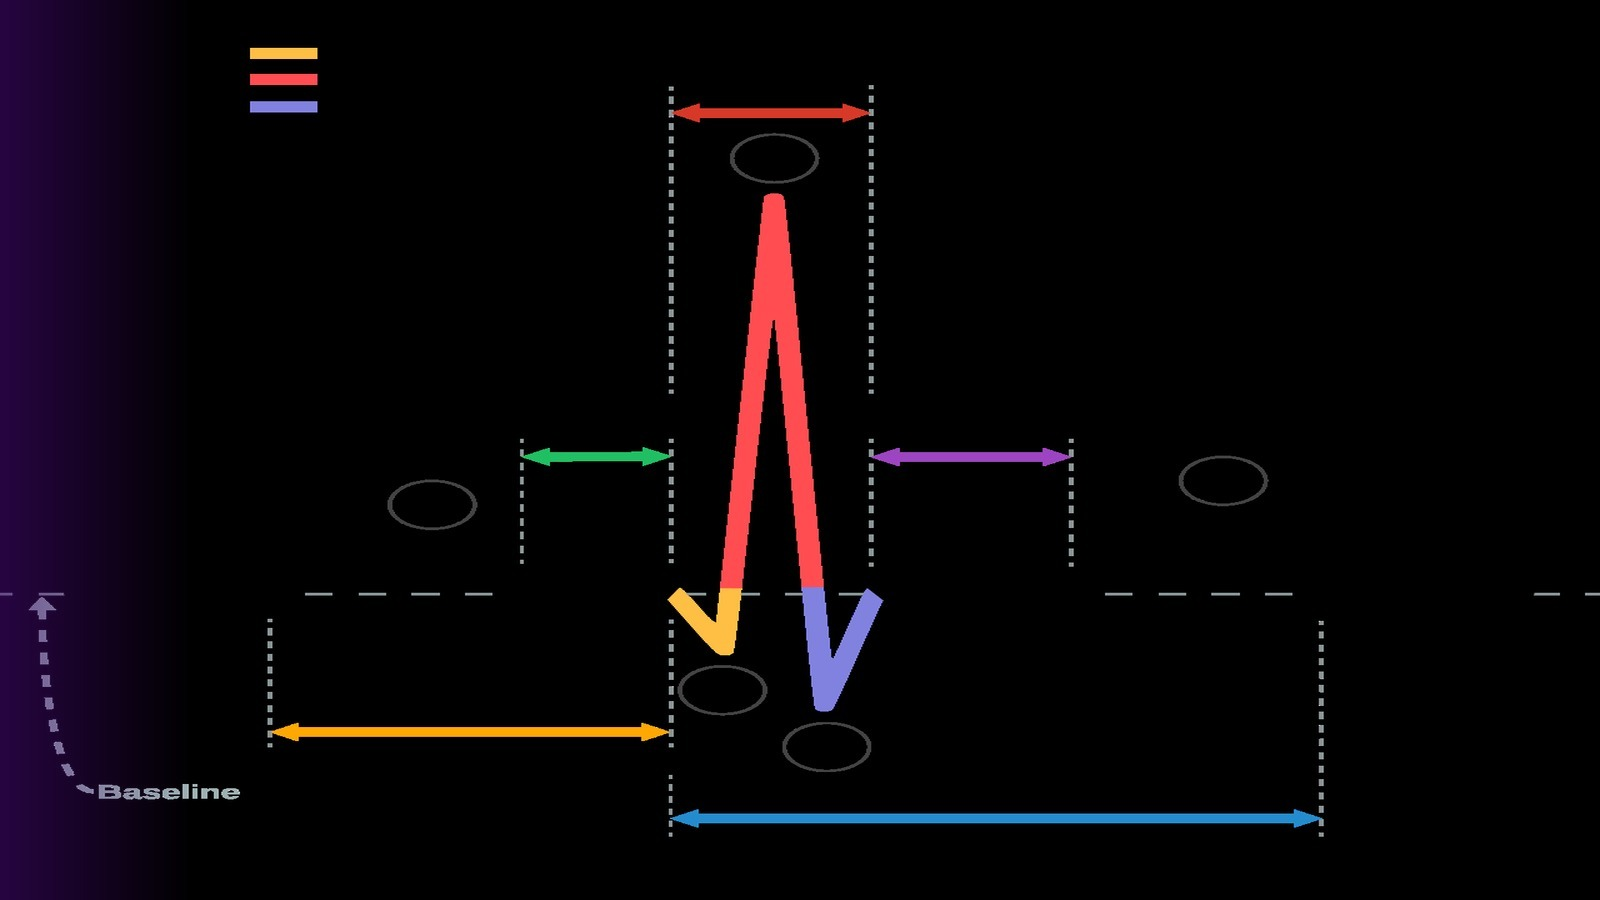
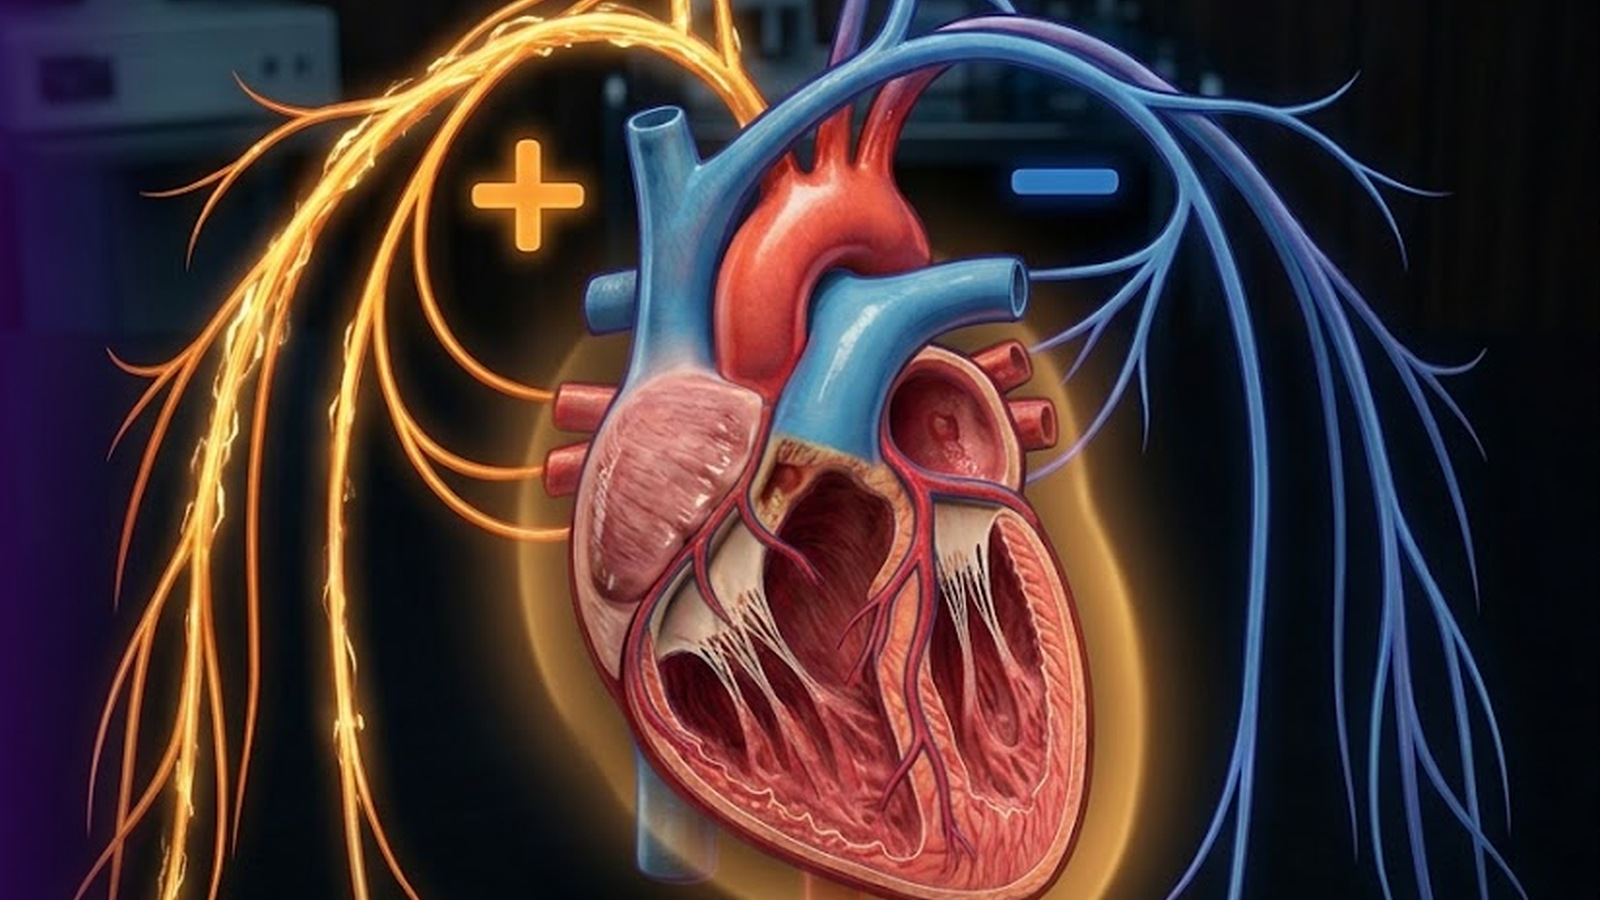
Add sympathetic-parasympathetic cover to VFC paper

diff --git a/blog/variabilidad-de-la-frecuencia-cardiaca-y-control-autonomico-en-la-fisiologia-clinica-rigor-metodologico-y-prescripcion-del-ejercicio.html b/blog/variabilidad-de-la-frecuencia-cardiaca-y-control-autonomico-en-la-fisiologia-clinica-rigor-metodologico-y-prescripcion-del-ejercicio.html
@@ -170,8 +170,8 @@
                     <h1 class="font-heading font-bold text-3xl sm:text-[2.35rem] leading-tight">Variabilidad de la Frecuencia Cardíaca y Control Autonómico en la Fisiología Clínica: Rigor Metodológico y Prescripción del Ejercicio</h1>
                     <div class="mt-5 flex flex-wrap gap-2"><span class="keyword-chip">Variabilidad de la frecuencia cardíaca</span><span class="keyword-chip">Fisiología cardiovascular</span><span class="keyword-chip">Metaboreflejo muscular</span><span class="keyword-chip">Control autonómico</span><span class="keyword-chip">Prescripción del ejercicio</span><span class="keyword-chip">Recuperación post-esfuerzo</span></div>
                 </div>
-                <div class="article-hero-media relative min-h-[14rem] order-1 lg:order-2">
-                    <img src="../assets/blog/variabilidad-de-la-frecuencia-cardiaca-y-control-autonomico-en-la-fisiologia-clinica-rigor-metodologico-y-prescripcion-del-ejercicio.jpg?v=5" alt="Variabilidad de la Frecuencia Cardíaca y Control Autonómico en la Fisiología Clínica: Rigor Metodológico y Prescripción del Ejercicio" class="w-full h-full object-cover">
+                <div class="article-hero-media relative min-h-[14rem] order-1 lg:order-2 bg-[#0b1220]">
+                    <img src="../assets/blog/variabilidad-de-la-frecuencia-cardiaca-y-control-autonomico-en-la-fisiologia-clinica-rigor-metodologico-y-prescripcion-del-ejercicio-infografia.png?v=7" alt="Control autonomico cardiaco: sistema simpatico y parasimpatico" class="w-full h-full object-contain">
                     <div class="article-hero-fade absolute inset-y-0 left-0 w-24 bg-gradient-to-r from-[#460877] to-transparent hidden lg:block"></div>
                 </div>
             </div>
@@ -185,6 +185,11 @@
                     <p class="text-xs font-heading font-bold uppercase tracking-widest text-metabolic-green mb-3">Resumen ejecutivo</p>
                     <p class="font-body text-lg leading-relaxed text-metabolic-charcoal/90 justified">Una revisión científica exhaustiva sobre la interpretación clínica de la variabilidad de la frecuencia cardíaca (VFC), los factores que afectan su reproducibilidad y cómo las nuevas terapias y modalidades de ejercicio modulan la función autonómica, el metaboreflejo y la recuperación en poblaciones clínicas.</p>
                 </div>
+
+                <figure class="mb-6 sm:mb-8 rounded-2xl overflow-hidden border border-gray-100 bg-[#0b1220] shadow-sm">
+                    <img src="../assets/blog/variabilidad-de-la-frecuencia-cardiaca-y-control-autonomico-en-la-fisiologia-clinica-rigor-metodologico-y-prescripcion-del-ejercicio-infografia.png?v=7" alt="Infografia: corazon con control simpatico (+) y parasimpatico (-)" class="w-full h-auto object-contain">
+                    <figcaption class="px-4 py-3 bg-white font-body text-xs sm:text-sm text-metabolic-charcoal/70">Figura. Balance autonómico cardiaco: rama simpática (+) y parasimpática (−) sobre el control de la frecuencia y la VFC.</figcaption>
+                </figure>
 
                 <div class="article-content font-body text-metabolic-charcoal/90 bg-white rounded-2xl p-6 sm:p-8 shadow-sm border border-gray-100">
                     <p>La variabilidad de la frecuencia cardíaca (VFC) ha emergido como una herramienta fundamental en la evaluación de la salud cardiovascular y el rendimiento físico. Su adopción se ha acelerado de manera exponencial debido a la ubiquidad de los dispositivos portátiles y sensores vestibles (wearables) en la práctica clínica y de campo. Sin embargo, su interpretación requiere bases fisiológicas sólidas y un análisis metodológico crítico para evitar conclusiones sesgadas o clínicamente erróneas.</p><h2>Contexto científico: Rigor y límites de la VFC</h2><p>De acuerdo con las guías de consenso publicadas en el <strong>American Journal of Physiology. Heart and Circulatory Physiology</strong> (2026), la VFC posee una utilidad demostrada para la estratificación de riesgo cardiovascular en humanos. No obstante, el documento establece una advertencia crucial para los profesionales del área: la VFC no debe ser empleada como un marcador directo de la actividad simpática cardíaca o del balance simpatovagal. Aunque las variables en el dominio del tiempo y el análisis espectral reflejan de forma precisa la modulación respiratoria de la actividad vagal (parasimpática), se requiere extrema precaución para no sobreinterpretar estos datos bajo el constructo simplista de <strong>tono vagal</strong>.</p><p>La reproducibilidad y validez de la evaluación de la VFC dependen de una serie de factores modificables y no modificables que deben ser rigurosamente controlados. Entre los factores intrínsecos del paciente destacan la edad, el sexo y el origen étnico, además de variables modificables como el nivel de condición física y la práctica habitual de ejercicio. En el aspecto metodológico, los resultados se ven fuertemente influenciados por la tecnología del registro (electrocardiografía frente a fotopletismografía), la duración de la toma de datos, el entorno de medición (laboratorio controlado frente a mediciones de campo) y, de manera crítica, por la frecuencia y profundidad de la respiración del sujeto durante la evaluación.</p><h2>Hallazgos principales en la modulación autonómica y patología cardiovascular</h2><ul><li><strong>Disfunción del metaboreflejo muscular:</strong> Según revisiones científicas de 2026, la alteración de este reflejo es un factor determinante del desequilibrio autonómico y la intolerancia al ejercicio en pacientes con patología cardiovascular. Al amplificar o atenuar las respuestas simpáticas, hemodinámicas y ventilatorias frente a la acumulación de metabolitos en el músculo esquelético activo, empeora la perfusión periférica y desajusta la relación entre el aporte y consumo de oxígeno, aumentando la sintomatología durante el esfuerzo.</li><li><strong>Recalibración mediante el entrenamiento físico:</strong> Se ha demostrado que la rehabilitación cardíaca y la prescripción adaptada de ejercicio logran modular el metaboreflejo. El entrenamiento aeróbico mejora el equilibrio simpatovagal, el control ventilatorio y la eficiencia metabólica. Por su parte, el entrenamiento de fuerza y el entrenamiento de los músculos inspiratorios inducen adaptaciones periféricas y vasculares complementarias que mejoran el control reflejo respiratorio.</li><li><strong>Dinámica de recuperación post-ejercicio en miocardiopatías:</strong> En pacientes con miocardiopatía hipertrófica obstructiva (MHO), el ensayo clínico fase 3 MAPLE-HCM (publicado en <strong>JAMA Cardiology</strong>, 2026) demostró que el tratamiento con aficamten supera al metoprolol (betabloqueante estándar) al optimizar múltiples fases del ejercicio. Los pacientes tratados con aficamten mejoraron significativamente la pendiente de ventilación/producción de dióxido de carbono (VE/VCO2) y el umbral anaeróbico. Además, redujeron en 11 segundos el tiempo requerido para que el consumo de oxígeno (VO2) se recuperara un 12.5% post-ejercicio, lo que evidencia una optimización en la cinética de recuperación cardíaca.</li><li><strong>Rendimiento metabólico y variabilidad en diabetes:</strong> En adultos con diabetes tipo 1, la investigación clínica aleatorizada (publicada en <strong>Diabetologia</strong>, 2026) evidenció que el ejercicio de intervalos de alta intensidad (HIIE) induce una respuesta fisiológica aguda mayor en comparación con el ejercicio moderado continuo (CONT) de igual carga mecánica, reflejada en mayor consumo de oxígeno y frecuencia cardíaca. Sin embargo, el HIIE protegió de manera significativa contra el descenso de la glucosa capilar durante el esfuerzo, sobre todo en estado postabsortivo (ayuno), reduciendo además el tiempo en rango de hipoglucemia clínicamente relevante (menor a 3.0 mmol/l) durante las 24 horas posteriores.</li></ul><h2>Aplicación en fisiología clínica y kinesiología</h2><p>Para los profesionales dedicados a la kinesiología y la fisiología clínica del ejercicio en Chile y Latinoamérica, estos hallazgos redefinen las pautas de evaluación y prescripción de entrenamiento. En primer lugar, la utilización de la VFC como indicador de estrés o fatiga debe realizarse bajo protocolos estrictamente estandarizados. Se debe registrar el método de captura y controlar el patrón respiratorio para evitar falsas lecturas de recuperación autonómica.</p><p>En segundo lugar, la dosificación de la carga de ejercicio en pacientes con patologías cardiovasculares o metabólicas no debe basarse únicamente en fórmulas teóricas de frecuencia cardíaca, especialmente si el paciente utiliza fármacos que alteran la respuesta cronotrópica (como el metoprolol, el cual demostró inducir caídas severas del VO2 pico en el ensayo clínico MAPLE-HCM). Es crucial prescribir ejercicio alineado con los umbrales ventilatorios individuales para incidir positivamente sobre el metaboreflejo muscular y restaurar el control autonómico cardíaco.</p><p>Por último, el uso de modalidades más exigentes como el HIIE puede ser incorporado de manera segura y supervisada en pacientes estables. En personas con diabetes tipo 1, prescribir sesiones de HIIE preferentemente en un estado postabsortivo representa una estrategia protectora robusta para evitar hipoglucemias inducidas por el ejercicio, permitiendo obtener ganancias cardiorrespiratorias superiores sin comprometer la estabilidad glucémica ni sobrecargar negativamente los mecanismos de recuperación autonómica.</p>

diff --git a/js/blog.js b/js/blog.js
@@ -31,7 +31,7 @@
     var date = post.published_at ? formatDate(post.published_at) : '';
     var image = post.image ? escapeHtml(post.image) : '';
     var hero = image
-      ? '<img src="' + image + '?v=7" alt="' + escapeHtml(post.title) + '" class="w-full h-full object-cover">'
+      ? '<img src="' + image + '?v=8" alt="' + escapeHtml(post.title) + '" class="w-full h-full object-cover">'
       : '<div class="w-full h-full bg-gradient-to-br from-metabolic-green/20 to-metabolic-cyan/20 flex items-center justify-center">' +
           '<svg class="w-16 h-16 text-' + color + '" fill="none" stroke="currentColor" viewBox="0 0 24 24">' +
             '<path stroke-linecap="round" stroke-linejoin="round" stroke-width="2" d="M9 12h6m-6 4h6m2 5H7a2 2 0 01-2-2V5a2 2 0 012-2h5.586a1 1 0 01.707.293l5.414 5.414a1 1 0 01.293.707V19a2 2 0 01-2 2z"></path>' +

diff --git a/blog.html b/blog.html
@@ -451,6 +451,6 @@
             });
         });
     </script>
-    <script src="js/blog.js?v=20260904e"></script>
+    <script src="js/blog.js?v=20260904f"></script>
 </body>
 </html>
